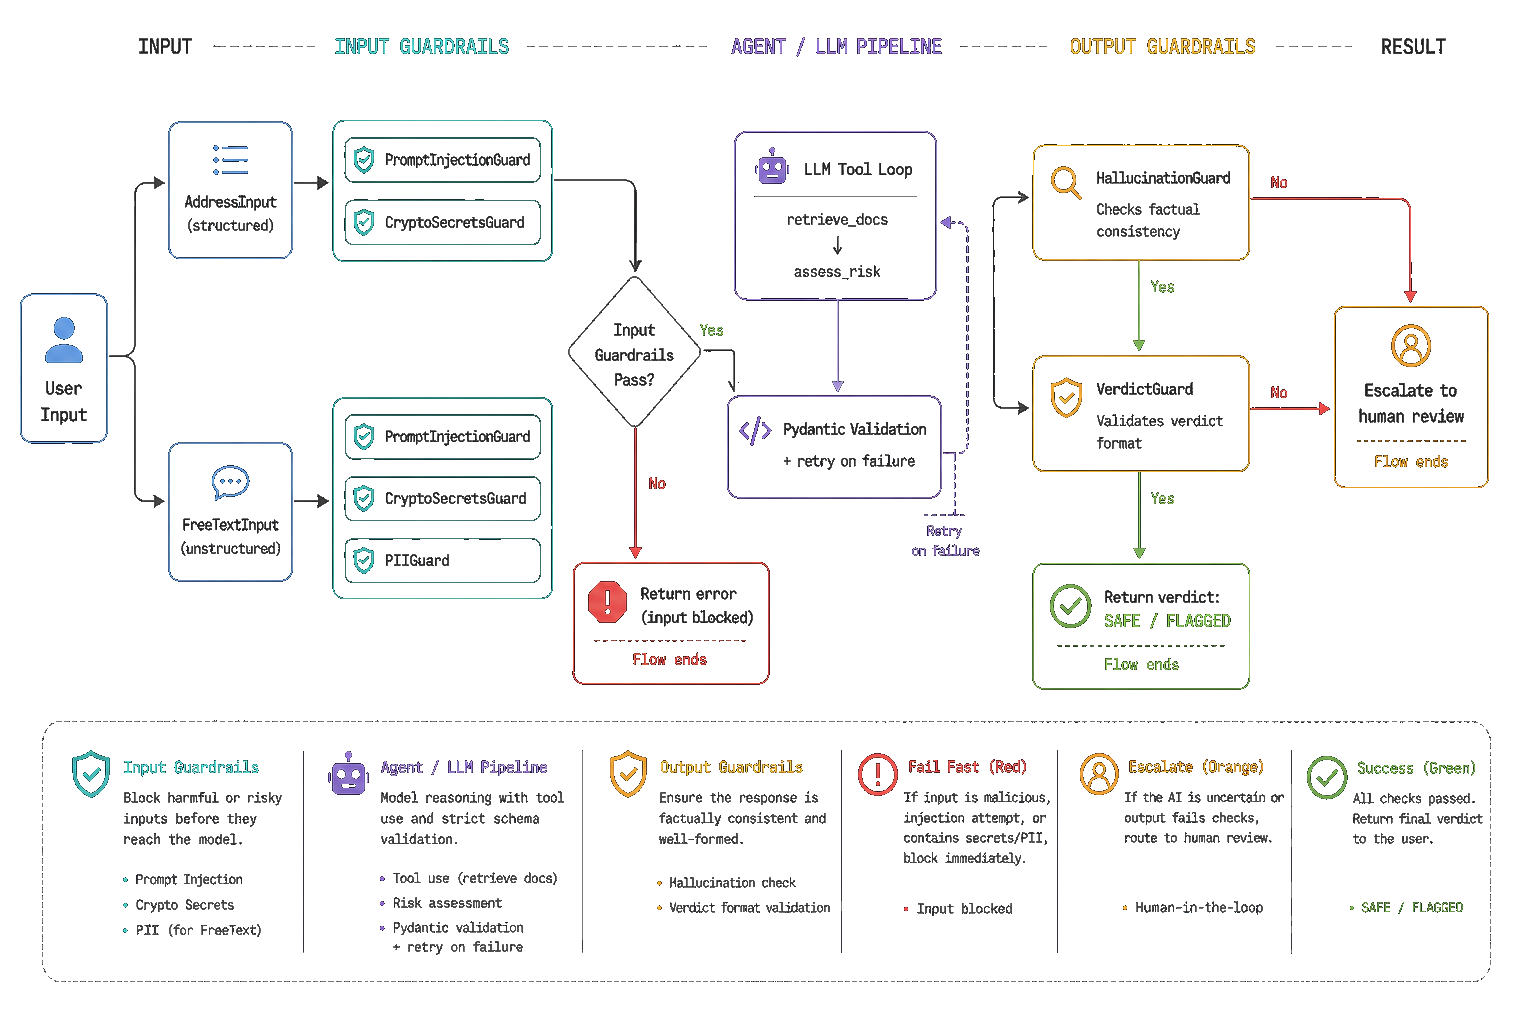
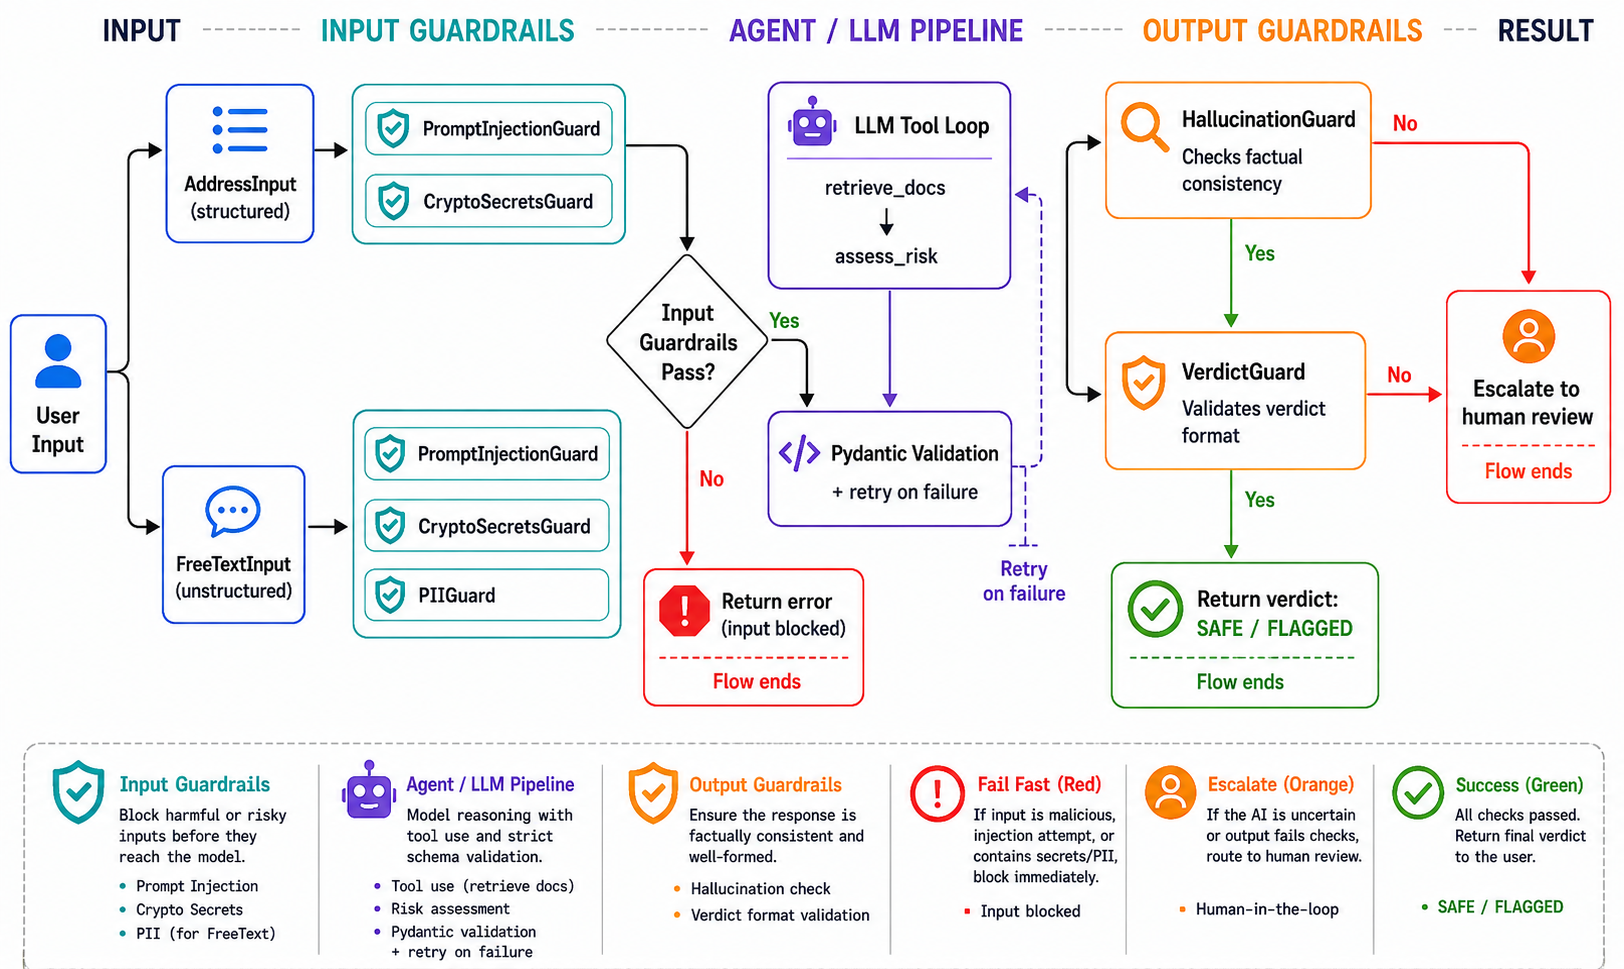
update image

diff --git a/README.md b/README.md
@@ -2,7 +2,7 @@
 
 A transaction-safety agent that implements AI testing and evaluation approaches for LLM agent and RAG workflows.
 
-<img src="docs/guardrails_pipeline.png" alt="Guardrails Pipeline" width="100%">
+<img src="docs/guardrails_pipeline.png" alt="Guardrails Pipeline" width="900">
 
 ---
 